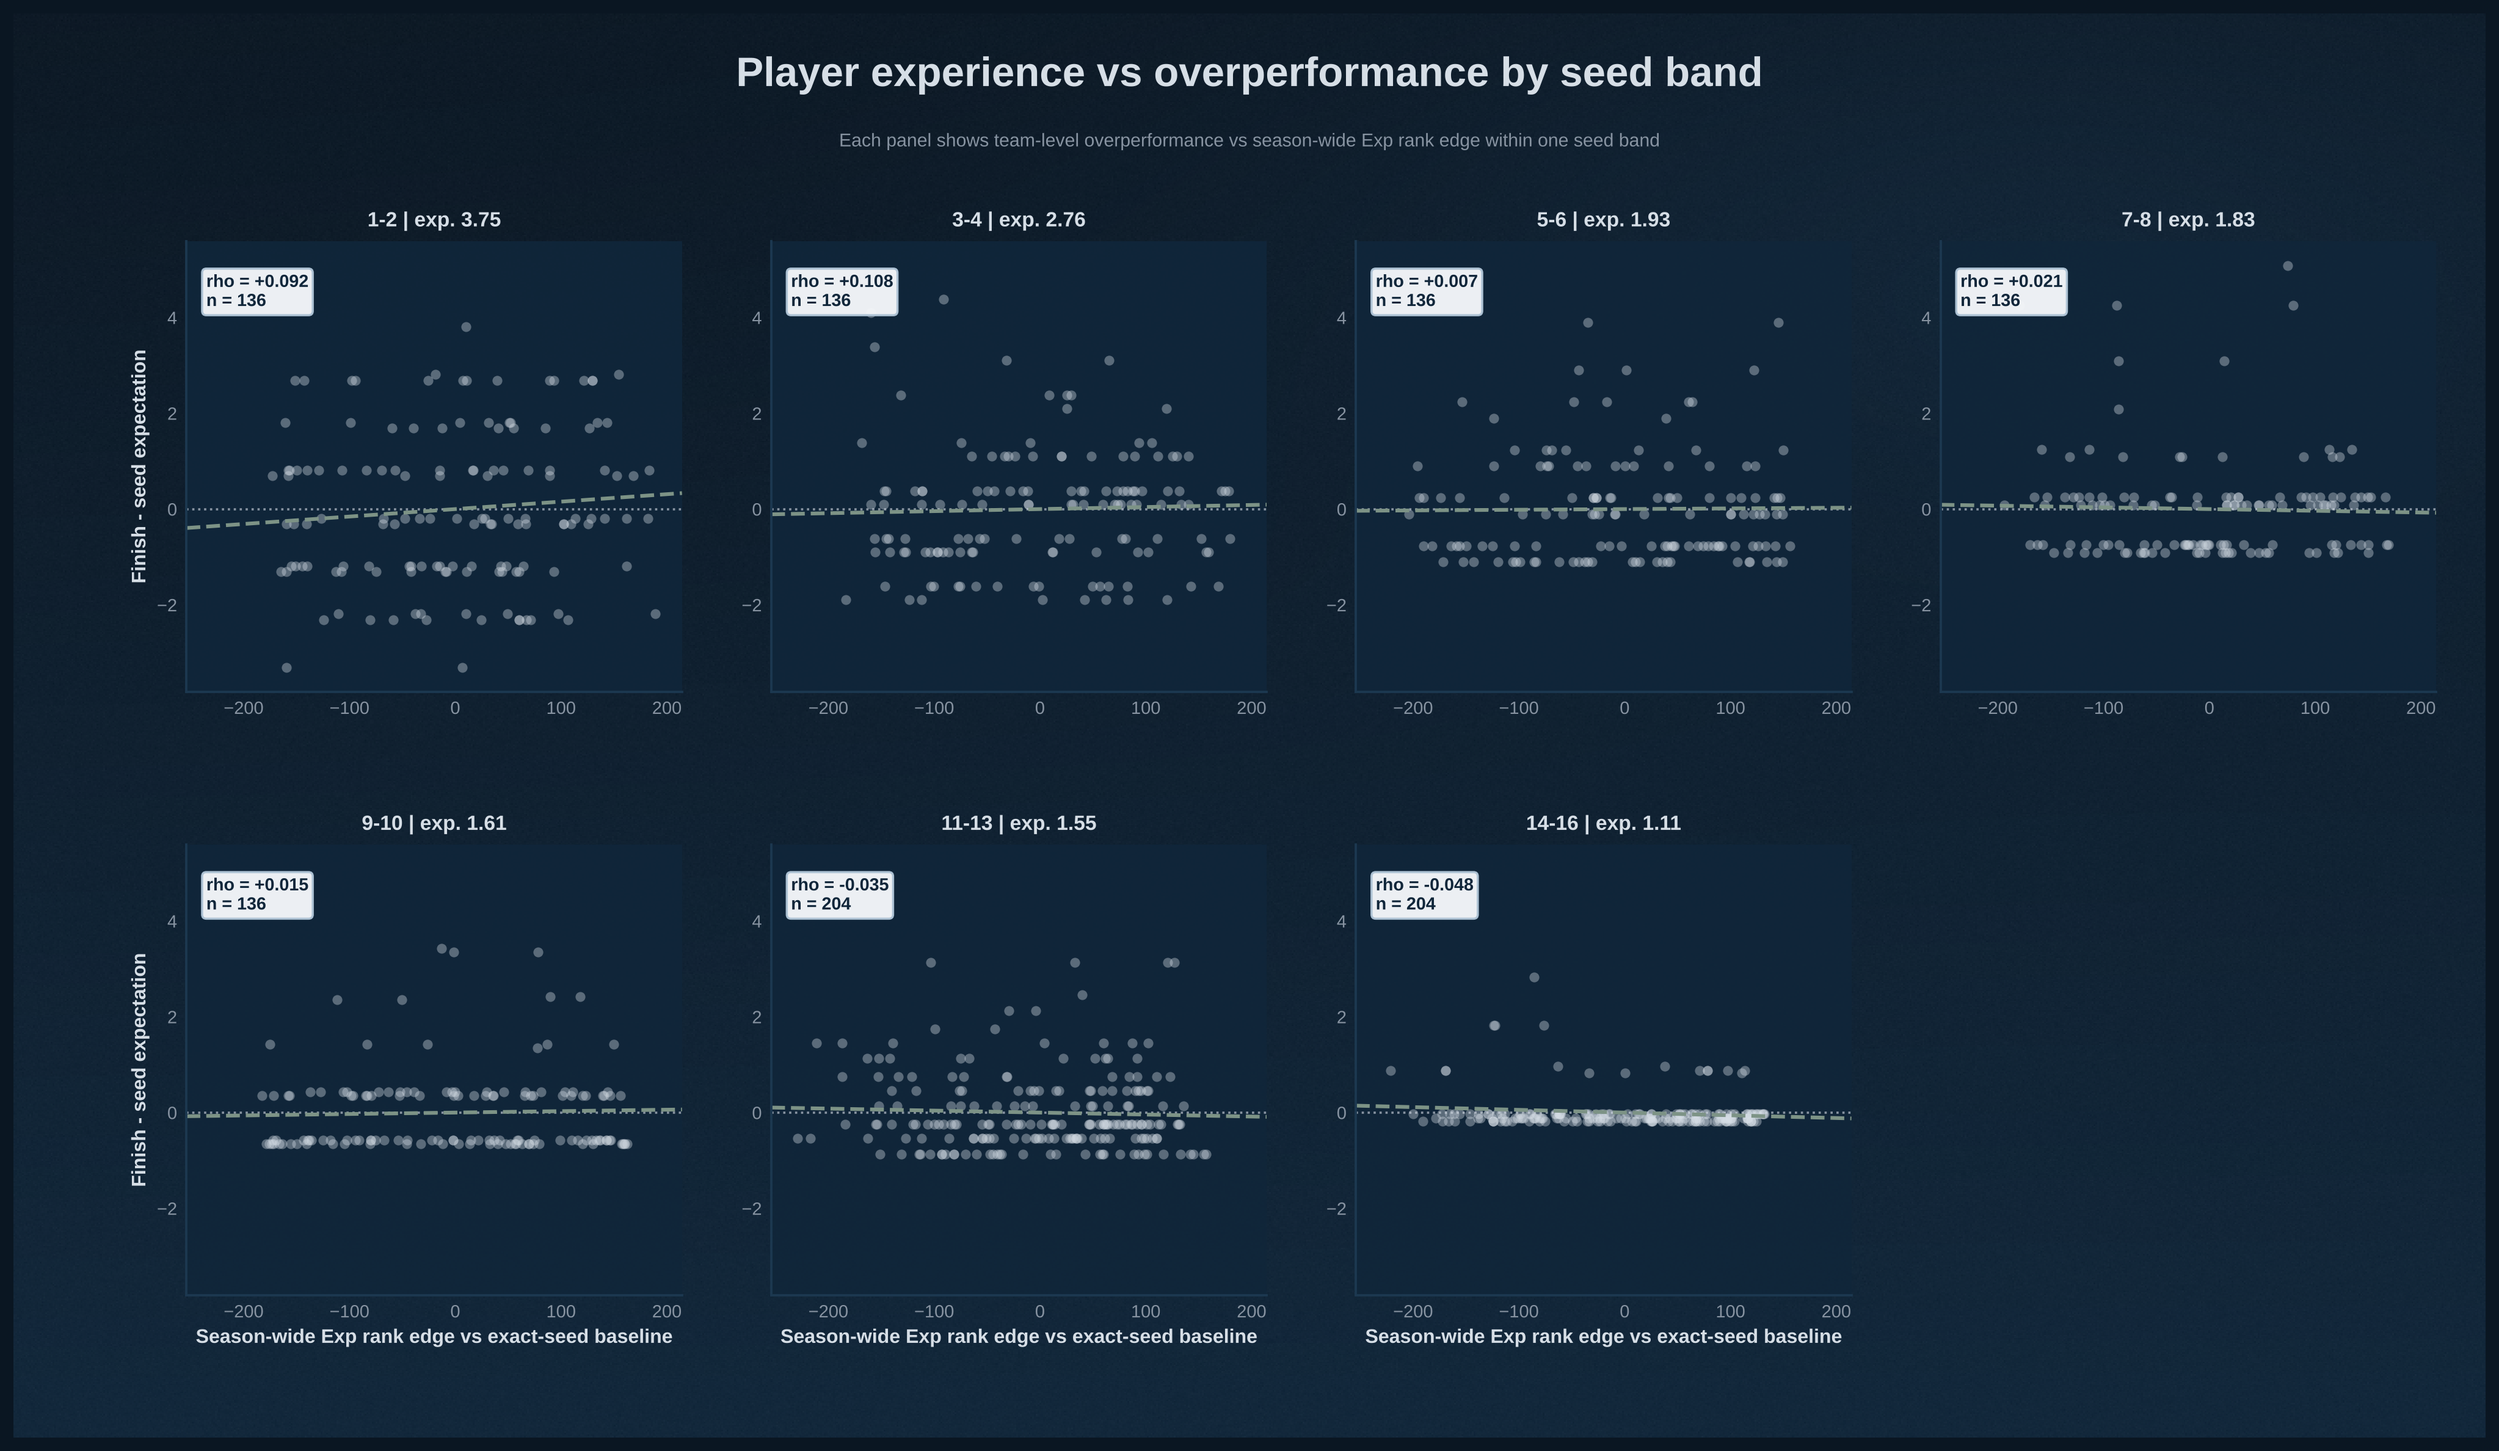
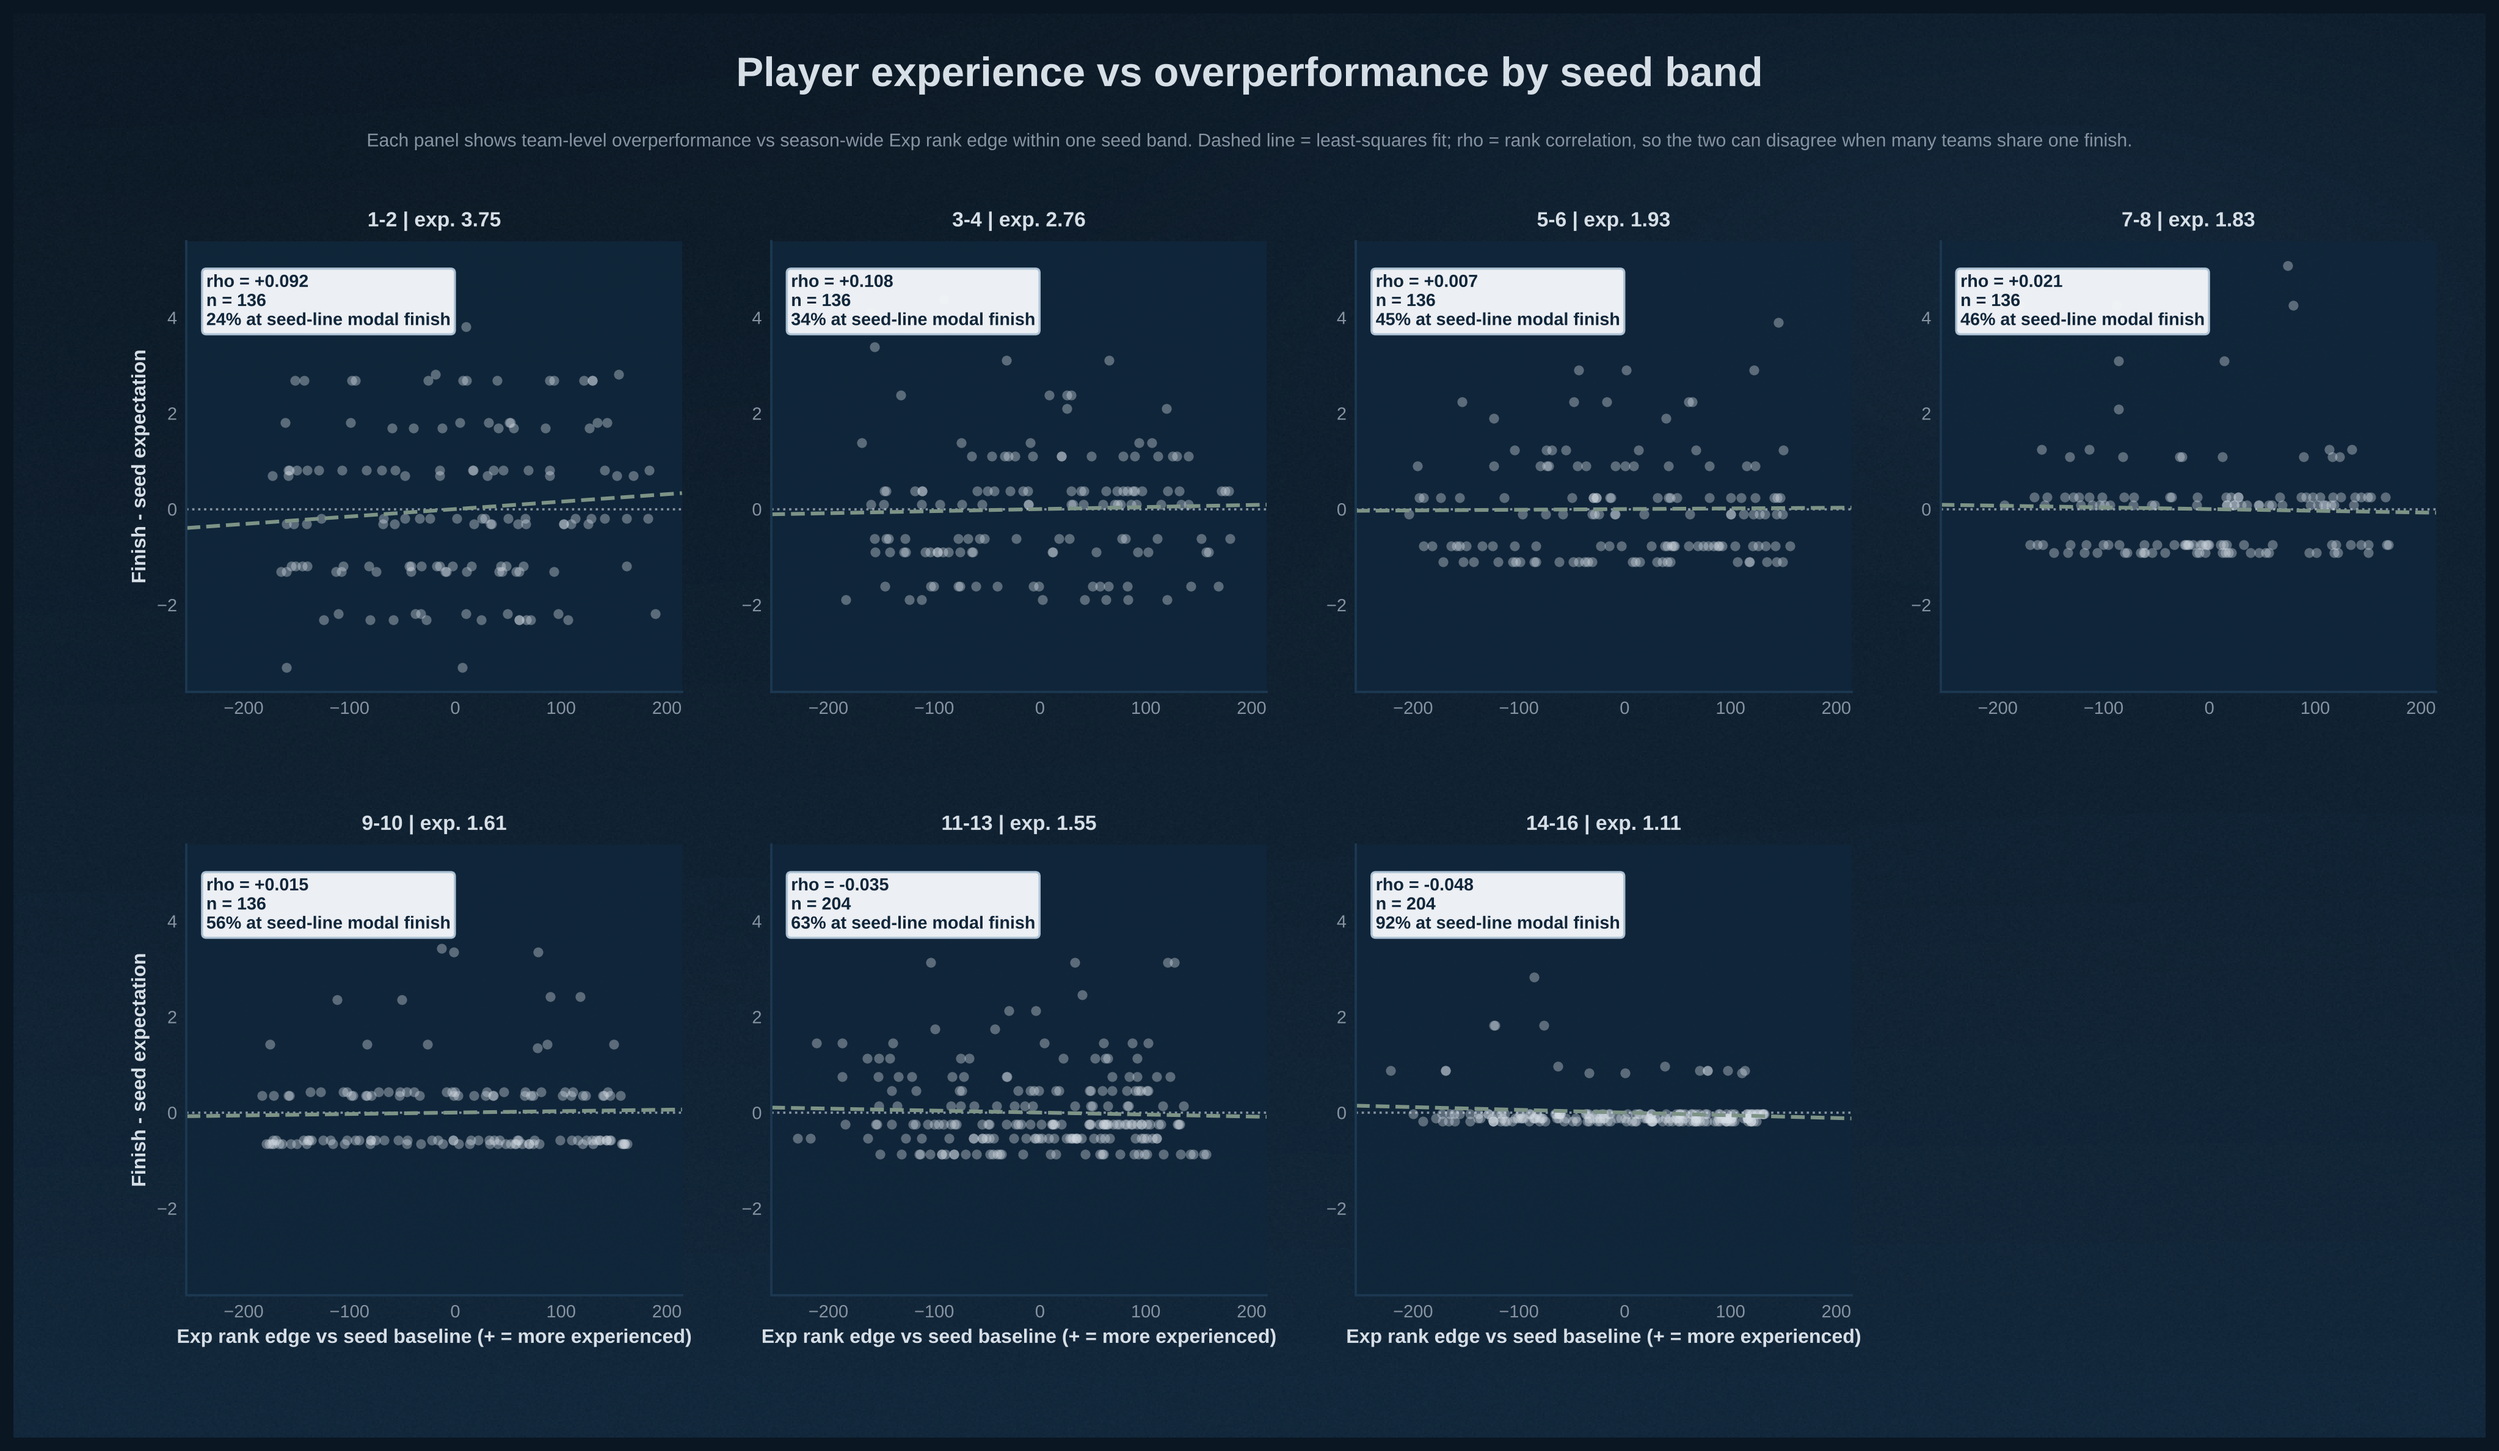
fix(experience): state the sign of the experience rhos; lock in the alignment fix
The pooled summary printed the raw rho as a "relationship with Exp rank",
but it is computed on the negated rank (higher = more experienced). Now that
the index-alignment fix makes the value meaningful (-0.122), the label read
backwards. The summary now states the sign convention and a direction
clause derived from the sign: more-experienced teams tended to finish
shallower in the raw data (-0.122) and slightly above seed expectation
within exact seed line (+0.030). The band summary states the same
convention for player_exp_rho and coach_exp_rho.

Figures: the x axes now say the rank edge is negated (+ = more
experienced). Each band panel shows the share of teams at their seed
line's modal finish, and the subtitle notes that the dashed least-squares
line and the rank correlation can disagree under heavy ties (90% of coach
14-16 teams and 92% of player 14-16 teams sit at one finish).

tests/test_experience_analysis.py builds frames whose index labels never
fall in 0..n-1 and checks build_seed_group_table and
build_analysis_02_table against scipy.stats.spearmanr on aligned arrays.
Both tests fail (NaN rhos) on the pre-fix script and pass on this one.

diff --git a/scripts/experience_analysis_02_04.py b/scripts/experience_analysis_02_04.py
@@ -181,7 +181,7 @@ def plot_analysis_02(df: pd.DataFrame, over_df: pd.DataFrame, summary_table: pd.
     right_ax.axhline(0, color=SECONDARY, linestyle=":", linewidth=1.4, zorder=0)
     right_ax.axvline(0, color=SECONDARY, linestyle=":", linewidth=1.4, zorder=0)
     right_ax.plot(seed_line_x, seed_line_y, color=ACCENT, linestyle="--", linewidth=2.6, zorder=2)
-    right_ax.set_xlabel("Season-wide Exp rank edge vs exact-seed baseline", fontsize=11, fontweight="semibold")
+    right_ax.set_xlabel("Season-wide Exp rank edge vs exact-seed baseline (positive = more experienced)", fontsize=11, fontweight="semibold")
     right_ax.set_ylabel("Finish vs exact-seed expectation", fontsize=11, fontweight="semibold")
     right_ax.set_title("Exact-seed controlled view", fontsize=13, fontweight="bold", color=TEXT_DARK, pad=16)
     right_ax.text(
@@ -429,11 +429,18 @@ def plot_analysis_04(df: pd.DataFrame, over_df: pd.DataFrame, coach_primary_metr
 
 def write_analysis_02_summary(path: Path, summary_table: pd.DataFrame) -> None:
     row = summary_table.iloc[0]
+    raw_direction = "shallower" if row["raw_spearman"] < 0 else "deeper"
+    seed_direction = "below" if row["seed_adjusted_spearman"] < 0 else "above"
     lines = [
         "# Experience Analysis 2: Player Experience vs Finish (Pooled)",
         "",
-        f"- Raw season-wide `Exp` rank relationship with finish depth: `{row['raw_spearman']:+.3f}`.",
-        f"- Exact-seed-controlled season-wide `Exp` rank edge relationship: `{row['seed_adjusted_spearman']:+.3f}`.",
+        "- Sign convention: both rhos (and the table's `raw_spearman` / `seed_adjusted_spearman`) use the negated "
+        "season-wide `Exp` rank, so higher = more experienced.",
+        f"- Raw relationship between player experience and finish depth: `{row['raw_spearman']:+.3f}` "
+        f"(more-experienced teams tended to finish {raw_direction}).",
+        f"- Within exact seed line (experience edge vs exact-seed baseline against finish vs exact-seed expectation): "
+        f"`{row['seed_adjusted_spearman']:+.3f}` (teams more experienced than their seed peers tended to finish "
+        f"{seed_direction} seed expectation).",
         f"- Champion average `Exp.` vs R64 average: `{row['champ_avg_exp']:.2f}` vs `{row['r64_avg_exp']:.2f}` (`{row['champ_minus_r64_exp']:+.2f}`).",
         f"- Champion average season-wide `Exp` rank vs R64 average: `{row['champ_avg_exp_rank']:.1f}` vs `{row['r64_avg_exp_rank']:.1f}` (`{row['champ_minus_r64_exp_rank']:+.1f}`, where lower rank means more experience).",
         "- Interpretation: the controlled panel expresses each team's season-wide Exp rank as an edge versus its exact-seed baseline.",
@@ -530,6 +537,17 @@ def build_seed_group_table(
     return pd.DataFrame(rows), seed_df
 
 
+def modal_finish_share(subset: pd.DataFrame) -> float:
+    """Share of teams sitting at their exact seed line's most common finish depth (ties for a rank correlation)."""
+    if subset.empty:
+        return float("nan")
+    modal_counts = subset.groupby("seed_int")["finish_depth"].agg(lambda values: int(values.value_counts().iloc[0]))
+    return float(modal_counts.sum() / len(subset))
+
+
+TIE_NOTE = "Dashed line = least-squares fit; rho = rank correlation, so the two can disagree when many teams share one finish."
+
+
 def _over_with_seed_group(over_df: pd.DataFrame) -> pd.DataFrame:
     out = over_df.copy()
     if "seed_group" not in out.columns:
@@ -590,7 +608,7 @@ def plot_seed_group_player(
         ax.text(
             0.04,
             0.93,
-            f"rho = {row['player_exp_rho']:+.3f}\nn = {int(row['team_count'])}",
+            f"rho = {row['player_exp_rho']:+.3f}\nn = {int(row['team_count'])}\n{modal_finish_share(subset):.0%} at seed-line modal finish",
             transform=ax.transAxes,
             ha="left",
             va="top",
@@ -605,7 +623,7 @@ def plot_seed_group_player(
         ax.set_ylabel("Finish - seed expectation", fontsize=10.5, fontweight="semibold")
     for ax in axes[1, :-1]:
         ax.set_xlabel(
-            "Season-wide Exp rank edge vs exact-seed baseline",
+            "Exp rank edge vs seed baseline (+ = more experienced)",
             fontsize=10.5,
             fontweight="semibold",
         )
@@ -618,7 +636,7 @@ def plot_seed_group_player(
     fig.text(
         0.5,
         0.91,
-        "Each panel shows team-level overperformance vs season-wide Exp rank edge within one seed band",
+        f"Each panel shows team-level overperformance vs season-wide Exp rank edge within one seed band. {TIE_NOTE}",
         ha="center",
         va="center",
         fontsize=9.9,
@@ -683,7 +701,7 @@ def plot_seed_group_coach(
         ax.text(
             0.04,
             0.93,
-            f"rho = {row['coach_exp_rho']:+.3f}\nn = {int(row['coach_team_count'])}",
+            f"rho = {row['coach_exp_rho']:+.3f}\nn = {int(row['coach_team_count'])}\n{modal_finish_share(subset):.0%} at seed-line modal finish",
             transform=ax.transAxes,
             ha="left",
             va="top",
@@ -711,7 +729,7 @@ def plot_seed_group_coach(
     fig.text(
         0.5,
         0.91,
-        f"Each panel shows team-level overperformance vs {metric_label(coach_primary_metric)} (vs seed baseline) within one seed band",
+        f"Each panel shows team-level overperformance vs {metric_label(coach_primary_metric)} (vs seed baseline) within one seed band. {TIE_NOTE}",
         ha="center",
         va="center",
         fontsize=9.9,
@@ -735,6 +753,9 @@ def write_seed_group_summary(
     lines = [
         "# Experience Analysis: Overperformance by Seed Band",
         "",
+        "- Sign convention: `player_exp_rho` correlates finish vs exact-seed expectation with the negated season-wide "
+        "`Exp` rank edge, and `coach_exp_rho` with the coach metric's edge, so a positive rho means teams more "
+        "experienced than their seed peers tended to finish further above seed expectation.",
         f"- Strongest player Exp. seed band: `{strongest_player['seed_group']}` at `{strongest_player['player_exp_rho']:+.3f}`.",
         f"- Strongest coach Exp. seed band: `{strongest_coach['seed_group']}` at `{strongest_coach['coach_exp_rho']:+.3f}` (`{metric_label(coach_primary_metric)}`).",
         f"- Weakest player Exp. seed band: `{weakest_player['seed_group']}` at `{weakest_player['player_exp_rho']:+.3f}`.",

diff --git a/tests/test_experience_analysis.py b/tests/test_experience_analysis.py
@@ -1,0 +1,76 @@
+from __future__ import annotations
+
+from pathlib import Path
+import sys
+
+import numpy as np
+import pandas as pd
+import pytest
+from scipy.stats import spearmanr
+
+SCRIPTS_DIR = Path(__file__).resolve().parents[1] / "scripts"
+if str(SCRIPTS_DIR) not in sys.path:
+    sys.path.insert(0, str(SCRIPTS_DIR))
+
+import experience_analysis_02_04 as exp  # noqa: E402
+
+COACH_METRIC = "coach_tourn_games_5y"
+
+
+def _frames_with_gappy_index(seed: int = 0) -> tuple[pd.DataFrame, pd.DataFrame]:
+    """Tournament-like rows whose index labels never fall in 0..n-1, as after filtering a larger frame."""
+    rng = np.random.default_rng(seed)
+    seeds = np.repeat(np.arange(1, 17), 12)
+    n = len(seeds)
+    finish_depth = np.clip(np.round(4.5 - 0.3 * seeds + rng.normal(scale=1.0, size=n)), 0, 6)
+    exp_rank = rng.uniform(1, 360, size=n)
+    finish = np.select(
+        [finish_depth >= 6, finish_depth <= 0], ["CHAMPS", "R64"], default="MID"
+    )
+    index = rng.permutation(1000 + 7 * np.arange(n))
+    tournament = pd.DataFrame(
+        {
+            "seed_int": seeds,
+            "finish_depth": finish_depth,
+            "finish": finish,
+            "exp_raw": rng.uniform(0.5, 3.0, size=n),
+            "exp_rank_season": exp_rank,
+        },
+        index=index,
+    )
+    over = pd.DataFrame(
+        {
+            "seed_int": seeds,
+            "seed_group": pd.Series(seeds, index=index).map(exp.SEED_GROUP_MAP).to_numpy(),
+            "overperformance": rng.normal(size=n) - 0.004 * exp_rank,
+            "exp_rank_season_vs_seed": exp_rank - rng.uniform(100, 200, size=n),
+            f"{COACH_METRIC}_vs_seed": rng.normal(size=n),
+        },
+        index=index,
+    )
+    return tournament, over
+
+
+def test_seed_group_player_rho_pairs_each_team_with_its_own_edge() -> None:
+    tournament, over = _frames_with_gappy_index()
+    table, _ = exp.build_seed_group_table(tournament, over, over, COACH_METRIC)
+
+    for row in table.itertuples(index=False):
+        band = over[over["seed_group"] == row.seed_group]
+        expected = spearmanr(band["overperformance"], -band["exp_rank_season_vs_seed"])[0]
+        assert row.player_exp_rho == pytest.approx(expected, abs=1e-12)
+        coach_expected = spearmanr(band["overperformance"], band[f"{COACH_METRIC}_vs_seed"])[0]
+        assert row.coach_exp_rho == pytest.approx(coach_expected, abs=1e-12)
+
+
+def test_pooled_player_rhos_pair_each_team_with_its_own_edge() -> None:
+    tournament, over = _frames_with_gappy_index(seed=1)
+    row = exp.build_analysis_02_table(tournament, over).iloc[0]
+
+    # Both rhos use the negated Exp rank, so positive = more experienced.
+    raw_expected = spearmanr(tournament["finish_depth"], -tournament["exp_rank_season"])[0]
+    seed_expected = spearmanr(over["overperformance"], -over["exp_rank_season_vs_seed"])[0]
+    assert row["raw_spearman"] == pytest.approx(raw_expected, abs=1e-12)
+    assert row["seed_adjusted_spearman"] == pytest.approx(seed_expected, abs=1e-12)
+    # The synthetic overperformance falls with rank, so the aligned estimate must be clearly positive.
+    assert row["seed_adjusted_spearman"] > 0.2

diff --git a/reports/player_exp_vs_finish_pooled_summary.md b/reports/player_exp_vs_finish_pooled_summary.md
@@ -1,7 +1,8 @@
 # Experience Analysis 2: Player Experience vs Finish (Pooled)
 
-- Raw season-wide `Exp` rank relationship with finish depth: `-0.122`.
-- Exact-seed-controlled season-wide `Exp` rank edge relationship: `+0.030`.
+- Sign convention: both rhos (and the table's `raw_spearman` / `seed_adjusted_spearman`) use the negated season-wide `Exp` rank, so higher = more experienced.
+- Raw relationship between player experience and finish depth: `-0.122` (more-experienced teams tended to finish shallower).
+- Within exact seed line (experience edge vs exact-seed baseline against finish vs exact-seed expectation): `+0.030` (teams more experienced than their seed peers tended to finish above seed expectation).
 - Champion average `Exp.` vs R64 average: `1.69` vs `1.89` (`-0.20`).
 - Champion average season-wide `Exp` rank vs R64 average: `188.8` vs `145.7` (`+43.2`, where lower rank means more experience).
 - Interpretation: the controlled panel expresses each team's season-wide Exp rank as an edge versus its exact-seed baseline.

diff --git a/reports/experience_vs_finish_by_seed_group_summary.md b/reports/experience_vs_finish_by_seed_group_summary.md
@@ -1,5 +1,6 @@
 # Experience Analysis: Overperformance by Seed Band
 
+- Sign convention: `player_exp_rho` correlates finish vs exact-seed expectation with the negated season-wide `Exp` rank edge, and `coach_exp_rho` with the coach metric's edge, so a positive rho means teams more experienced than their seed peers tended to finish further above seed expectation.
 - Strongest player Exp. seed band: `3-4` at `+0.108`.
 - Strongest coach Exp. seed band: `14-16` at `+0.208` (`Coach tourney games (5y)`).
 - Weakest player Exp. seed band: `14-16` at `-0.048`.
